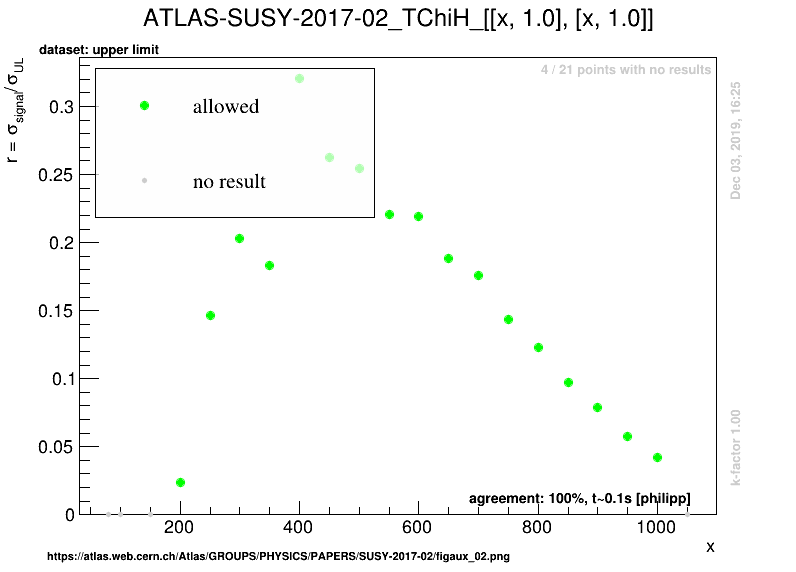
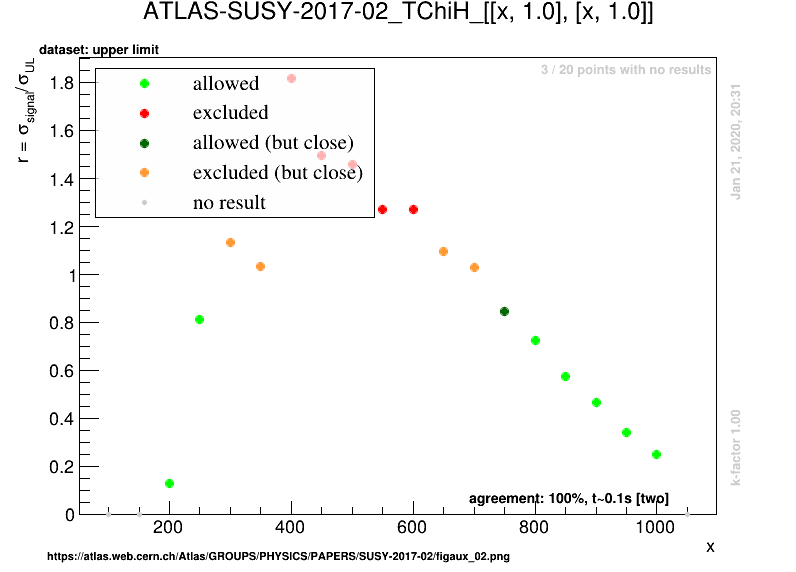
TChiH added

diff --git a/docs/Validation123phil.md b/docs/Validation123phil.md
@@ -26,12 +26,12 @@ The validation procedure for upper limit maps used here is explained in [arXiv:1
 |------------|------------|--------------|----------------------|-------------|
 | [ATLAS-SUSY-2016-07](https://atlas.web.cern.ch/Atlas/GROUPS/PHYSICS/PAPERS/SUSY-2016-07/)| [T1](SmsDictionary123phil#T1)| 36.1|<a href="https://smodels.github.io/validation/123phil/13TeV/ATLAS/ATLAS-SUSY-2016-07/validation/T1_2EqMassAx_EqMassBy_pretty.png"><img src="https://smodels.github.io/validation/123phil/13TeV/ATLAS/ATLAS-SUSY-2016-07/validation/T1_2EqMassAx_EqMassBy_pretty.png" /></a>  | <img src="https://smodels.github.io/pics/new.png" /> in 1.2.3phil! [comment](https://smodels.github.io/validation/123phil/13TeV/ATLAS/ATLAS-SUSY-2016-07/validation/T1.txt) |
 | | [T2](SmsDictionary123phil#T2)| 36.1|<a href="https://smodels.github.io/validation/123phil/13TeV/ATLAS/ATLAS-SUSY-2016-07/validation/T2_2EqMassAx_EqMassBy_pretty.png"><img src="https://smodels.github.io/validation/123phil/13TeV/ATLAS/ATLAS-SUSY-2016-07/validation/T2_2EqMassAx_EqMassBy_pretty.png" /></a>  | <img src="https://smodels.github.io/pics/new.png" /> in 1.2.3phil! [comment](https://smodels.github.io/validation/123phil/13TeV/ATLAS/ATLAS-SUSY-2016-07/validation/T2.txt) |
-| | [T5WW](SmsDictionary123phil#T5WW)| 36.1|<a href="https://smodels.github.io/validation/123phil/13TeV/ATLAS/ATLAS-SUSY-2016-07/validation/T5WW_2EqMassAx_EqMassBy_EqMassC60.0_pretty.png"><img src="https://smodels.github.io/validation/123phil/13TeV/ATLAS/ATLAS-SUSY-2016-07/validation/T5WW_2EqMassAx_EqMassBy_EqMassC60.0_pretty.png" /></a><BR><a href="https://smodels.github.io/validation/123phil/13TeV/ATLAS/ATLAS-SUSY-2016-07/validation/T5WW_2EqMassAx_EqMassB0.5x+0.5y_EqMassCy_pretty.png"><img src="https://smodels.github.io/validation/123phil/13TeV/ATLAS/ATLAS-SUSY-2016-07/validation/T5WW_2EqMassAx_EqMassB0.5x+0.5y_EqMassCy_pretty.png" /></a>  | <img src="https://smodels.github.io/pics/new.png" /> in 1.2.3phil! [comment](https://smodels.github.io/validation/123phil/13TeV/ATLAS/ATLAS-SUSY-2016-07/validation/T5WW.txt) |
+| | [T5WW](SmsDictionary123phil#T5WW)| 36.1|<a href="https://smodels.github.io/validation/123phil/13TeV/ATLAS/ATLAS-SUSY-2016-07/validation/T5WW_2EqMassAx_EqMassB0.5x+0.5y_EqMassCy_pretty.png"><img src="https://smodels.github.io/validation/123phil/13TeV/ATLAS/ATLAS-SUSY-2016-07/validation/T5WW_2EqMassAx_EqMassB0.5x+0.5y_EqMassCy_pretty.png" /></a><BR><a href="https://smodels.github.io/validation/123phil/13TeV/ATLAS/ATLAS-SUSY-2016-07/validation/T5WW_2EqMassAx_EqMassBy_EqMassC60.0_pretty.png"><img src="https://smodels.github.io/validation/123phil/13TeV/ATLAS/ATLAS-SUSY-2016-07/validation/T5WW_2EqMassAx_EqMassBy_EqMassC60.0_pretty.png" /></a>  | <img src="https://smodels.github.io/pics/new.png" /> in 1.2.3phil! [comment](https://smodels.github.io/validation/123phil/13TeV/ATLAS/ATLAS-SUSY-2016-07/validation/T5WW.txt) |
 | | [T5WWoff](SmsDictionary123phil#T5WWoff)| 36.1|<a href="https://smodels.github.io/validation/123phil/13TeV/ATLAS/ATLAS-SUSY-2016-07/validation/T5WWoff_2EqMassAx_EqMassB0.5x+0.5y_EqMassCy_pretty.png"><img src="https://smodels.github.io/validation/123phil/13TeV/ATLAS/ATLAS-SUSY-2016-07/validation/T5WWoff_2EqMassAx_EqMassB0.5x+0.5y_EqMassCy_pretty.png" /></a><BR><a href="https://smodels.github.io/validation/123phil/13TeV/ATLAS/ATLAS-SUSY-2016-07/validation/T5WWoff_2EqMassAx_EqMassBy_EqMassC60.0_pretty.png"><img src="https://smodels.github.io/validation/123phil/13TeV/ATLAS/ATLAS-SUSY-2016-07/validation/T5WWoff_2EqMassAx_EqMassBy_EqMassC60.0_pretty.png" /></a>  | <img src="https://smodels.github.io/pics/new.png" /> in 1.2.3phil!  |
 | | [T5WZh](SmsDictionary123phil#T5WZh)| 36.1|<a href="https://smodels.github.io/validation/123phil/13TeV/ATLAS/ATLAS-SUSY-2016-07/validation/T5WZh_2EqMassAx_EqMassBy_EqMassC60.0_pretty.png"><img src="https://smodels.github.io/validation/123phil/13TeV/ATLAS/ATLAS-SUSY-2016-07/validation/T5WZh_2EqMassAx_EqMassBy_EqMassC60.0_pretty.png" /></a>  | <img src="https://smodels.github.io/pics/new.png" /> in 1.2.3phil!  |
 | | [T5ZZ](SmsDictionary123phil#T5ZZ)| 36.1|<a href="https://smodels.github.io/validation/123phil/13TeV/ATLAS/ATLAS-SUSY-2016-07/validation/T5ZZ_2EqMassAx_EqMassBy_EqMassC1.0_pretty.png"><img src="https://smodels.github.io/validation/123phil/13TeV/ATLAS/ATLAS-SUSY-2016-07/validation/T5ZZ_2EqMassAx_EqMassBy_EqMassC1.0_pretty.png" /></a>  | <img src="https://smodels.github.io/pics/new.png" /> in 1.2.3phil!  |
-| | [T6WWleft](SmsDictionary123phil#T6WWleft)| 36.1|<a href="https://smodels.github.io/validation/123phil/13TeV/ATLAS/ATLAS-SUSY-2016-07/validation/T6WWleft_2EqMassAx_EqMassBy_EqMassC60.0_pretty.png"><img src="https://smodels.github.io/validation/123phil/13TeV/ATLAS/ATLAS-SUSY-2016-07/validation/T6WWleft_2EqMassAx_EqMassBy_EqMassC60.0_pretty.png" /></a><BR><a href="https://smodels.github.io/validation/123phil/13TeV/ATLAS/ATLAS-SUSY-2016-07/validation/T6WWleft_2EqMassAx_EqMassB0.5x+0.5y_EqMassCy_pretty.png"><img src="https://smodels.github.io/validation/123phil/13TeV/ATLAS/ATLAS-SUSY-2016-07/validation/T6WWleft_2EqMassAx_EqMassB0.5x+0.5y_EqMassCy_pretty.png" /></a>  | <img src="https://smodels.github.io/pics/new.png" /> in 1.2.3phil! [comment](https://smodels.github.io/validation/123phil/13TeV/ATLAS/ATLAS-SUSY-2016-07/validation/T6WWleft.txt) |
-| | [T6WWoffleft](SmsDictionary123phil#T6WWoffleft)| 36.1|<a href="https://smodels.github.io/validation/123phil/13TeV/ATLAS/ATLAS-SUSY-2016-07/validation/T6WWoffleft_2EqMassAx_EqMassBy_EqMassC60.0_pretty.png"><img src="https://smodels.github.io/validation/123phil/13TeV/ATLAS/ATLAS-SUSY-2016-07/validation/T6WWoffleft_2EqMassAx_EqMassBy_EqMassC60.0_pretty.png" /></a><BR><a href="https://smodels.github.io/validation/123phil/13TeV/ATLAS/ATLAS-SUSY-2016-07/validation/T6WWoffleft_2EqMassAx_EqMassB0.5x+0.5y_EqMassCy_pretty.png"><img src="https://smodels.github.io/validation/123phil/13TeV/ATLAS/ATLAS-SUSY-2016-07/validation/T6WWoffleft_2EqMassAx_EqMassB0.5x+0.5y_EqMassCy_pretty.png" /></a>  | <img src="https://smodels.github.io/pics/new.png" /> in 1.2.3phil!  |
+| | [T6WWleft](SmsDictionary123phil#T6WWleft)| 36.1|<a href="https://smodels.github.io/validation/123phil/13TeV/ATLAS/ATLAS-SUSY-2016-07/validation/T6WWleft_2EqMassAx_EqMassB0.5x+0.5y_EqMassCy_pretty.png"><img src="https://smodels.github.io/validation/123phil/13TeV/ATLAS/ATLAS-SUSY-2016-07/validation/T6WWleft_2EqMassAx_EqMassB0.5x+0.5y_EqMassCy_pretty.png" /></a><BR><a href="https://smodels.github.io/validation/123phil/13TeV/ATLAS/ATLAS-SUSY-2016-07/validation/T6WWleft_2EqMassAx_EqMassBy_EqMassC60.0_pretty.png"><img src="https://smodels.github.io/validation/123phil/13TeV/ATLAS/ATLAS-SUSY-2016-07/validation/T6WWleft_2EqMassAx_EqMassBy_EqMassC60.0_pretty.png" /></a>  | <img src="https://smodels.github.io/pics/new.png" /> in 1.2.3phil! [comment](https://smodels.github.io/validation/123phil/13TeV/ATLAS/ATLAS-SUSY-2016-07/validation/T6WWleft.txt) |
+| | [T6WWoffleft](SmsDictionary123phil#T6WWoffleft)| 36.1|<a href="https://smodels.github.io/validation/123phil/13TeV/ATLAS/ATLAS-SUSY-2016-07/validation/T6WWoffleft_2EqMassAx_EqMassB0.5x+0.5y_EqMassCy_pretty.png"><img src="https://smodels.github.io/validation/123phil/13TeV/ATLAS/ATLAS-SUSY-2016-07/validation/T6WWoffleft_2EqMassAx_EqMassB0.5x+0.5y_EqMassCy_pretty.png" /></a><BR><a href="https://smodels.github.io/validation/123phil/13TeV/ATLAS/ATLAS-SUSY-2016-07/validation/T6WWoffleft_2EqMassAx_EqMassBy_EqMassC60.0_pretty.png"><img src="https://smodels.github.io/validation/123phil/13TeV/ATLAS/ATLAS-SUSY-2016-07/validation/T6WWoffleft_2EqMassAx_EqMassBy_EqMassC60.0_pretty.png" /></a>  | <img src="https://smodels.github.io/pics/new.png" /> in 1.2.3phil!  |
 | | [T6WZh](SmsDictionary123phil#T6WZh)| 36.1|<a href="https://smodels.github.io/validation/123phil/13TeV/ATLAS/ATLAS-SUSY-2016-07/validation/T6WZh_2EqMassAx_EqMassBy_EqMassC60.0_pretty.png"><img src="https://smodels.github.io/validation/123phil/13TeV/ATLAS/ATLAS-SUSY-2016-07/validation/T6WZh_2EqMassAx_EqMassBy_EqMassC60.0_pretty.png" /></a>  | <img src="https://smodels.github.io/pics/new.png" /> in 1.2.3phil! [comment](https://smodels.github.io/validation/123phil/13TeV/ATLAS/ATLAS-SUSY-2016-07/validation/T6WZh.txt) |
 | [ATLAS-SUSY-2016-15](https://atlas.web.cern.ch/Atlas/GROUPS/PHYSICS/PAPERS/SUSY-2016-15/)| [T2tt](SmsDictionary123phil#T2tt)| 36.1|<a href="https://smodels.github.io/validation/123phil/13TeV/ATLAS/ATLAS-SUSY-2016-15/validation/T2tt_2EqMassAx_EqMassBy_pretty.png"><img src="https://smodels.github.io/validation/123phil/13TeV/ATLAS/ATLAS-SUSY-2016-15/validation/T2tt_2EqMassAx_EqMassBy_pretty.png" /></a>  | <img src="https://smodels.github.io/pics/new.png" /> in 1.2.3phil!  |
 | | [T2ttoff](SmsDictionary123phil#T2ttoff)| 36.1|<a href="https://smodels.github.io/validation/123phil/13TeV/ATLAS/ATLAS-SUSY-2016-15/validation/T2ttoff_2EqMassAx_EqMassBy_pretty.png"><img src="https://smodels.github.io/validation/123phil/13TeV/ATLAS/ATLAS-SUSY-2016-15/validation/T2ttoff_2EqMassAx_EqMassBy_pretty.png" /></a>  | <img src="https://smodels.github.io/pics/new.png" /> in 1.2.3phil!  |
@@ -48,7 +48,7 @@ The validation procedure for upper limit maps used here is explained in [arXiv:1
 | | [T6Gamma](SmsDictionary123phil#T6Gamma)| 36.1|<a href="https://smodels.github.io/validation/123phil/13TeV/ATLAS/ATLAS-SUSY-2016-27/validation/T6Gamma_2EqMassAx_EqMassBy_EqMassC1.0_pretty.png"><img src="https://smodels.github.io/validation/123phil/13TeV/ATLAS/ATLAS-SUSY-2016-27/validation/T6Gamma_2EqMassAx_EqMassBy_EqMassC1.0_pretty.png" /></a>  | <img src="https://smodels.github.io/pics/new.png" /> in 1.2.3phil!  |
 | | [TChipChimGamma](SmsDictionary123phil#TChipChimGamma)| 36.1|<a href="https://smodels.github.io/validation/123phil/13TeV/ATLAS/ATLAS-SUSY-2016-27/validation/TChipChimGamma_2EqMassAx_EqMassBy_EqMassC1.0_pretty.png"><img src="https://smodels.github.io/validation/123phil/13TeV/ATLAS/ATLAS-SUSY-2016-27/validation/TChipChimGamma_2EqMassAx_EqMassBy_EqMassC1.0_pretty.png" /></a>  | <img src="https://smodels.github.io/pics/new.png" /> in 1.2.3phil!  |
 | [ATLAS-SUSY-2017-01](https://atlas.web.cern.ch/Atlas/GROUPS/PHYSICS/PAPERS/SUSY-2017-01/)| [TChiWH](SmsDictionary123phil#TChiWH)| 36.1|<a href="https://smodels.github.io/validation/123phil/13TeV/ATLAS/ATLAS-SUSY-2017-01/validation/TChiWH_2EqMassAx_EqMassBy_pretty.png"><img src="https://smodels.github.io/validation/123phil/13TeV/ATLAS/ATLAS-SUSY-2017-01/validation/TChiWH_2EqMassAx_EqMassBy_pretty.png" /></a>  | <img src="https://smodels.github.io/pics/new.png" /> in 1.2.3phil!  |
-| [ATLAS-SUSY-2017-02](https://atlas.web.cern.ch/Atlas/GROUPS/PHYSICS/PAPERS/SUSY-2017-02/)| [TChiH](SmsDictionary123phil#TChiH)| 36.1|  | <img src="https://smodels.github.io/pics/new.png" /> in 1.2.3phil!  |
+| [ATLAS-SUSY-2017-02](https://atlas.web.cern.ch/Atlas/GROUPS/PHYSICS/PAPERS/SUSY-2017-02/)| [TChiH](SmsDictionary123phil#TChiH)| 36.1|<a href="https://smodels.github.io/validation/123phil/13TeV/ATLAS/ATLAS-SUSY-2017-02/validation/TChiH_2EqMassAx_EqMassB1.0_pretty.png"><img src="https://smodels.github.io/validation/123phil/13TeV/ATLAS/ATLAS-SUSY-2017-02/validation/TChiH_2EqMassAx_EqMassB1.0_pretty.png" /></a>  | <img src="https://smodels.github.io/pics/new.png" /> in 1.2.3phil!  |
 | [ATLAS-SUSY-2018-32](https://atlas.web.cern.ch/Atlas/GROUPS/PHYSICS/PAPERS/SUSY-2018-32/)| [TChiWW](SmsDictionary123phil#TChiWW)| 139.0|<a href="https://smodels.github.io/validation/123phil/13TeV/ATLAS/ATLAS-SUSY-2018-32/validation/TChiWW_2EqMassAx_EqMassBy_pretty.png"><img src="https://smodels.github.io/validation/123phil/13TeV/ATLAS/ATLAS-SUSY-2018-32/validation/TChiWW_2EqMassAx_EqMassBy_pretty.png" /></a>  | <img src="https://smodels.github.io/pics/new.png" /> in 1.2.3phil!  |
 | | [TChipChimSlepSlepAll](SmsDictionary123phil#TChipChimSlepSlepAll)| 139.0|<a href="https://smodels.github.io/validation/123phil/13TeV/ATLAS/ATLAS-SUSY-2018-32/validation/TChipChimSlepSlepAll_2EqMassAx_EqMassB0.5x+0.5y_EqMassCy_pretty.png"><img src="https://smodels.github.io/validation/123phil/13TeV/ATLAS/ATLAS-SUSY-2018-32/validation/TChipChimSlepSlepAll_2EqMassAx_EqMassB0.5x+0.5y_EqMassCy_pretty.png" /></a>  | <img src="https://smodels.github.io/pics/new.png" /> in 1.2.3phil!  |
 | | [TSlepSlep](SmsDictionary123phil#TSlepSlep)| 139.0|<a href="https://smodels.github.io/validation/123phil/13TeV/ATLAS/ATLAS-SUSY-2018-32/validation/TSlepSlep_2EqMassAx_EqMassBy_pretty.png"><img src="https://smodels.github.io/validation/123phil/13TeV/ATLAS/ATLAS-SUSY-2018-32/validation/TSlepSlep_2EqMassAx_EqMassBy_pretty.png" /></a>  | <img src="https://smodels.github.io/pics/new.png" /> in 1.2.3phil!  |
@@ -61,15 +61,15 @@ The validation procedure for upper limit maps used here is explained in [arXiv:1
 |------------|------------|--------------|----------------------|-------------|
 | [ATLAS-SUSY-2016-07](https://atlas.web.cern.ch/Atlas/GROUPS/PHYSICS/PAPERS/SUSY-2016-07/)| [T1](SmsDictionary123phil#T1)| 36.1|<a href="https://smodels.github.io/validation/123phil/13TeV/ATLAS/ATLAS-SUSY-2016-07-eff/validation/T1_2EqMassAx_EqMassBy_pretty.png"><img src="https://smodels.github.io/validation/123phil/13TeV/ATLAS/ATLAS-SUSY-2016-07-eff/validation/T1_2EqMassAx_EqMassBy_pretty.png" /></a>  | <img src="https://smodels.github.io/pics/new.png" /> in 1.2.3phil!  |
 | | [T2](SmsDictionary123phil#T2)| 36.1|<a href="https://smodels.github.io/validation/123phil/13TeV/ATLAS/ATLAS-SUSY-2016-07-eff/validation/T2_2EqMassAx_EqMassBy_pretty.png"><img src="https://smodels.github.io/validation/123phil/13TeV/ATLAS/ATLAS-SUSY-2016-07-eff/validation/T2_2EqMassAx_EqMassBy_pretty.png" /></a>  | <img src="https://smodels.github.io/pics/new.png" /> in 1.2.3phil!  |
-| | [T5WW](SmsDictionary123phil#T5WW)| 36.1|<a href="https://smodels.github.io/validation/123phil/13TeV/ATLAS/ATLAS-SUSY-2016-07-eff/validation/T5WW_2EqMassAx_EqMassBy_EqMassC60.0_pretty.png"><img src="https://smodels.github.io/validation/123phil/13TeV/ATLAS/ATLAS-SUSY-2016-07-eff/validation/T5WW_2EqMassAx_EqMassBy_EqMassC60.0_pretty.png" /></a><BR><a href="https://smodels.github.io/validation/123phil/13TeV/ATLAS/ATLAS-SUSY-2016-07-eff/validation/T5WW_2EqMassAx_EqMassB0.5x+0.5y_EqMassCy_pretty.png"><img src="https://smodels.github.io/validation/123phil/13TeV/ATLAS/ATLAS-SUSY-2016-07-eff/validation/T5WW_2EqMassAx_EqMassB0.5x+0.5y_EqMassCy_pretty.png" /></a>  | <img src="https://smodels.github.io/pics/new.png" /> in 1.2.3phil!  |
+| | [T5WW](SmsDictionary123phil#T5WW)| 36.1|<a href="https://smodels.github.io/validation/123phil/13TeV/ATLAS/ATLAS-SUSY-2016-07-eff/validation/T5WW_2EqMassAx_EqMassB0.5x+0.5y_EqMassCy_pretty.png"><img src="https://smodels.github.io/validation/123phil/13TeV/ATLAS/ATLAS-SUSY-2016-07-eff/validation/T5WW_2EqMassAx_EqMassB0.5x+0.5y_EqMassCy_pretty.png" /></a><BR><a href="https://smodels.github.io/validation/123phil/13TeV/ATLAS/ATLAS-SUSY-2016-07-eff/validation/T5WW_2EqMassAx_EqMassBy_EqMassC60.0_pretty.png"><img src="https://smodels.github.io/validation/123phil/13TeV/ATLAS/ATLAS-SUSY-2016-07-eff/validation/T5WW_2EqMassAx_EqMassBy_EqMassC60.0_pretty.png" /></a>  | <img src="https://smodels.github.io/pics/new.png" /> in 1.2.3phil!  |
 | | [T5WWoff](SmsDictionary123phil#T5WWoff)| 36.1|<a href="https://smodels.github.io/validation/123phil/13TeV/ATLAS/ATLAS-SUSY-2016-07-eff/validation/T5WWoff_2EqMassAx_EqMassB0.5x+0.5y_EqMassCy_pretty.png"><img src="https://smodels.github.io/validation/123phil/13TeV/ATLAS/ATLAS-SUSY-2016-07-eff/validation/T5WWoff_2EqMassAx_EqMassB0.5x+0.5y_EqMassCy_pretty.png" /></a><BR><a href="https://smodels.github.io/validation/123phil/13TeV/ATLAS/ATLAS-SUSY-2016-07-eff/validation/T5WWoff_2EqMassAx_EqMassBy_EqMassC60.0_pretty.png"><img src="https://smodels.github.io/validation/123phil/13TeV/ATLAS/ATLAS-SUSY-2016-07-eff/validation/T5WWoff_2EqMassAx_EqMassBy_EqMassC60.0_pretty.png" /></a>  | <img src="https://smodels.github.io/pics/new.png" /> in 1.2.3phil!  |
 | | [T5WZh](SmsDictionary123phil#T5WZh)| 36.1|<a href="https://smodels.github.io/validation/123phil/13TeV/ATLAS/ATLAS-SUSY-2016-07-eff/validation/T5WZh_2EqMassAx_EqMassBy_EqMassC60.0_pretty.png"><img src="https://smodels.github.io/validation/123phil/13TeV/ATLAS/ATLAS-SUSY-2016-07-eff/validation/T5WZh_2EqMassAx_EqMassBy_EqMassC60.0_pretty.png" /></a>  | <img src="https://smodels.github.io/pics/new.png" /> in 1.2.3phil! [comment](https://smodels.github.io/validation/123phil/13TeV/ATLAS/ATLAS-SUSY-2016-07-eff/validation/T5WZh.txt) |
 | | [T5ZZ](SmsDictionary123phil#T5ZZ)| 36.1|<a href="https://smodels.github.io/validation/123phil/13TeV/ATLAS/ATLAS-SUSY-2016-07-eff/validation/T5ZZ_2EqMassAx_EqMassBy_EqMassC1.0_pretty.png"><img src="https://smodels.github.io/validation/123phil/13TeV/ATLAS/ATLAS-SUSY-2016-07-eff/validation/T5ZZ_2EqMassAx_EqMassBy_EqMassC1.0_pretty.png" /></a>  | <img src="https://smodels.github.io/pics/new.png" /> in 1.2.3phil!  |
-| | [T6WWleft](SmsDictionary123phil#T6WWleft)| 36.1|<a href="https://smodels.github.io/validation/123phil/13TeV/ATLAS/ATLAS-SUSY-2016-07-eff/validation/T6WWleft_2EqMassAx_EqMassBy_EqMassC60.0_pretty.png"><img src="https://smodels.github.io/validation/123phil/13TeV/ATLAS/ATLAS-SUSY-2016-07-eff/validation/T6WWleft_2EqMassAx_EqMassBy_EqMassC60.0_pretty.png" /></a><BR><a href="https://smodels.github.io/validation/123phil/13TeV/ATLAS/ATLAS-SUSY-2016-07-eff/validation/T6WWleft_2EqMassAx_EqMassB0.5x+0.5y_EqMassCy_pretty.png"><img src="https://smodels.github.io/validation/123phil/13TeV/ATLAS/ATLAS-SUSY-2016-07-eff/validation/T6WWleft_2EqMassAx_EqMassB0.5x+0.5y_EqMassCy_pretty.png" /></a>  | <img src="https://smodels.github.io/pics/new.png" /> in 1.2.3phil!  |
-| | [T6WWoffleft](SmsDictionary123phil#T6WWoffleft)| 36.1|<a href="https://smodels.github.io/validation/123phil/13TeV/ATLAS/ATLAS-SUSY-2016-07-eff/validation/T6WWoffleft_2EqMassAx_EqMassBy_EqMassC60.0_pretty.png"><img src="https://smodels.github.io/validation/123phil/13TeV/ATLAS/ATLAS-SUSY-2016-07-eff/validation/T6WWoffleft_2EqMassAx_EqMassBy_EqMassC60.0_pretty.png" /></a><BR><a href="https://smodels.github.io/validation/123phil/13TeV/ATLAS/ATLAS-SUSY-2016-07-eff/validation/T6WWoffleft_2EqMassAx_EqMassB0.5x+0.5y_EqMassCy_pretty.png"><img src="https://smodels.github.io/validation/123phil/13TeV/ATLAS/ATLAS-SUSY-2016-07-eff/validation/T6WWoffleft_2EqMassAx_EqMassB0.5x+0.5y_EqMassCy_pretty.png" /></a>  | <img src="https://smodels.github.io/pics/new.png" /> in 1.2.3phil!  |
+| | [T6WWleft](SmsDictionary123phil#T6WWleft)| 36.1|<a href="https://smodels.github.io/validation/123phil/13TeV/ATLAS/ATLAS-SUSY-2016-07-eff/validation/T6WWleft_2EqMassAx_EqMassB0.5x+0.5y_EqMassCy_pretty.png"><img src="https://smodels.github.io/validation/123phil/13TeV/ATLAS/ATLAS-SUSY-2016-07-eff/validation/T6WWleft_2EqMassAx_EqMassB0.5x+0.5y_EqMassCy_pretty.png" /></a><BR><a href="https://smodels.github.io/validation/123phil/13TeV/ATLAS/ATLAS-SUSY-2016-07-eff/validation/T6WWleft_2EqMassAx_EqMassBy_EqMassC60.0_pretty.png"><img src="https://smodels.github.io/validation/123phil/13TeV/ATLAS/ATLAS-SUSY-2016-07-eff/validation/T6WWleft_2EqMassAx_EqMassBy_EqMassC60.0_pretty.png" /></a>  | <img src="https://smodels.github.io/pics/new.png" /> in 1.2.3phil!  |
+| | [T6WWoffleft](SmsDictionary123phil#T6WWoffleft)| 36.1|<a href="https://smodels.github.io/validation/123phil/13TeV/ATLAS/ATLAS-SUSY-2016-07-eff/validation/T6WWoffleft_2EqMassAx_EqMassB0.5x+0.5y_EqMassCy_pretty.png"><img src="https://smodels.github.io/validation/123phil/13TeV/ATLAS/ATLAS-SUSY-2016-07-eff/validation/T6WWoffleft_2EqMassAx_EqMassB0.5x+0.5y_EqMassCy_pretty.png" /></a><BR><a href="https://smodels.github.io/validation/123phil/13TeV/ATLAS/ATLAS-SUSY-2016-07-eff/validation/T6WWoffleft_2EqMassAx_EqMassBy_EqMassC60.0_pretty.png"><img src="https://smodels.github.io/validation/123phil/13TeV/ATLAS/ATLAS-SUSY-2016-07-eff/validation/T6WWoffleft_2EqMassAx_EqMassBy_EqMassC60.0_pretty.png" /></a>  | <img src="https://smodels.github.io/pics/new.png" /> in 1.2.3phil!  |
 | | [T6WZh](SmsDictionary123phil#T6WZh)| 36.1|<a href="https://smodels.github.io/validation/123phil/13TeV/ATLAS/ATLAS-SUSY-2016-07-eff/validation/T6WZh_2EqMassAx_EqMassBy_EqMassC60.0_pretty.png"><img src="https://smodels.github.io/validation/123phil/13TeV/ATLAS/ATLAS-SUSY-2016-07-eff/validation/T6WZh_2EqMassAx_EqMassBy_EqMassC60.0_pretty.png" /></a>  | <img src="https://smodels.github.io/pics/new.png" /> in 1.2.3phil! [comment](https://smodels.github.io/validation/123phil/13TeV/ATLAS/ATLAS-SUSY-2016-07-eff/validation/T6WZh.txt) |
 | | [TGQ](SmsDictionary123phil#TGQ)| 36.1|  | <img src="https://smodels.github.io/pics/new.png" /> in 1.2.3phil!  |
-| | [TGQ12](SmsDictionary123phil#TGQ12)| 36.1|<a href="https://smodels.github.io/validation/123phil/13TeV/ATLAS/ATLAS-SUSY-2016-07-eff/validation/TGQ12_EqMassAx_EqMassB695.0__EqmassAy_EqmassB695.0_pretty.png"><img src="https://smodels.github.io/validation/123phil/13TeV/ATLAS/ATLAS-SUSY-2016-07-eff/validation/TGQ12_EqMassAx_EqMassB695.0__EqmassAy_EqmassB695.0_pretty.png" /></a><BR><a href="https://smodels.github.io/validation/123phil/13TeV/ATLAS/ATLAS-SUSY-2016-07-eff/validation/TGQ12_EqMassAx_EqMassB0.0__EqmassAy_EqmassB0.0_pretty.png"><img src="https://smodels.github.io/validation/123phil/13TeV/ATLAS/ATLAS-SUSY-2016-07-eff/validation/TGQ12_EqMassAx_EqMassB0.0__EqmassAy_EqmassB0.0_pretty.png" /></a><BR><a href="https://smodels.github.io/validation/123phil/13TeV/ATLAS/ATLAS-SUSY-2016-07-eff/validation/TGQ12_EqMassAx_EqMassB995.0__EqmassAy_EqmassB995.0_pretty.png"><img src="https://smodels.github.io/validation/123phil/13TeV/ATLAS/ATLAS-SUSY-2016-07-eff/validation/TGQ12_EqMassAx_EqMassB995.0__EqmassAy_EqmassB995.0_pretty.png" /></a>  | <img src="https://smodels.github.io/pics/new.png" /> in 1.2.3phil! [comment](https://smodels.github.io/validation/123phil/13TeV/ATLAS/ATLAS-SUSY-2016-07-eff/validation/TGQ12.txt) |
+| | [TGQ12](SmsDictionary123phil#TGQ12)| 36.1|<a href="https://smodels.github.io/validation/123phil/13TeV/ATLAS/ATLAS-SUSY-2016-07-eff/validation/TGQ12_EqMassAx_EqMassB995.0__EqmassAy_EqmassB995.0_pretty.png"><img src="https://smodels.github.io/validation/123phil/13TeV/ATLAS/ATLAS-SUSY-2016-07-eff/validation/TGQ12_EqMassAx_EqMassB995.0__EqmassAy_EqmassB995.0_pretty.png" /></a><BR><a href="https://smodels.github.io/validation/123phil/13TeV/ATLAS/ATLAS-SUSY-2016-07-eff/validation/TGQ12_EqMassAx_EqMassB0.0__EqmassAy_EqmassB0.0_pretty.png"><img src="https://smodels.github.io/validation/123phil/13TeV/ATLAS/ATLAS-SUSY-2016-07-eff/validation/TGQ12_EqMassAx_EqMassB0.0__EqmassAy_EqmassB0.0_pretty.png" /></a><BR><a href="https://smodels.github.io/validation/123phil/13TeV/ATLAS/ATLAS-SUSY-2016-07-eff/validation/TGQ12_EqMassAx_EqMassB695.0__EqmassAy_EqmassB695.0_pretty.png"><img src="https://smodels.github.io/validation/123phil/13TeV/ATLAS/ATLAS-SUSY-2016-07-eff/validation/TGQ12_EqMassAx_EqMassB695.0__EqmassAy_EqmassB695.0_pretty.png" /></a>  | <img src="https://smodels.github.io/pics/new.png" /> in 1.2.3phil! [comment](https://smodels.github.io/validation/123phil/13TeV/ATLAS/ATLAS-SUSY-2016-07-eff/validation/TGQ12.txt) |
 | [ATLAS-SUSY-2016-15](https://atlas.web.cern.ch/Atlas/GROUPS/PHYSICS/PAPERS/SUSY-2016-15/)| [T2tt](SmsDictionary123phil#T2tt)| 36.1|<a href="https://smodels.github.io/validation/123phil/13TeV/ATLAS/ATLAS-SUSY-2016-15-eff/validation/T2tt_2EqMassAx_EqMassBy_pretty.png"><img src="https://smodels.github.io/validation/123phil/13TeV/ATLAS/ATLAS-SUSY-2016-15-eff/validation/T2tt_2EqMassAx_EqMassBy_pretty.png" /></a>  | <img src="https://smodels.github.io/pics/new.png" /> in 1.2.3phil!  |
 | | [T2ttoff](SmsDictionary123phil#T2ttoff)| 36.1|<a href="https://smodels.github.io/validation/123phil/13TeV/ATLAS/ATLAS-SUSY-2016-15-eff/validation/T2ttoff_2EqMassAx_EqMassBy_pretty.png"><img src="https://smodels.github.io/validation/123phil/13TeV/ATLAS/ATLAS-SUSY-2016-15-eff/validation/T2ttoff_2EqMassAx_EqMassBy_pretty.png" /></a>  | <img src="https://smodels.github.io/pics/new.png" /> in 1.2.3phil! [comment](https://smodels.github.io/validation/123phil/13TeV/ATLAS/ATLAS-SUSY-2016-15-eff/validation/T2ttoff.txt) |
 | [ATLAS-SUSY-2016-16](https://atlas.web.cern.ch/Atlas/GROUPS/PHYSICS/PAPERS/SUSY-2016-16/)| [T2ttoff](SmsDictionary123phil#T2ttoff)| 36.1|<a href="https://smodels.github.io/validation/123phil/13TeV/ATLAS/ATLAS-SUSY-2016-16-eff/validation/T2ttoff_2EqMassAx_EqMassBy_pretty.png"><img src="https://smodels.github.io/validation/123phil/13TeV/ATLAS/ATLAS-SUSY-2016-16-eff/validation/T2ttoff_2EqMassAx_EqMassBy_pretty.png" /></a>  | <img src="https://smodels.github.io/pics/new.png" /> in 1.2.3phil!  |
@@ -83,4 +83,4 @@ The validation procedure for upper limit maps used here is explained in [arXiv:1
 | [ATLAS-SUSY-2017-01](https://atlas.web.cern.ch/Atlas/GROUPS/PHYSICS/PAPERS/SUSY-2017-01/)| [TChiWH](SmsDictionary123phil#TChiWH)| 36.1|<a href="https://smodels.github.io/validation/123phil/13TeV/ATLAS/ATLAS-SUSY-2017-01-eff/validation/TChiWH_2EqMassAx_EqMassBy_pretty.png"><img src="https://smodels.github.io/validation/123phil/13TeV/ATLAS/ATLAS-SUSY-2017-01-eff/validation/TChiWH_2EqMassAx_EqMassBy_pretty.png" /></a>  | <img src="https://smodels.github.io/pics/new.png" /> in 1.2.3phil! [comment](https://smodels.github.io/validation/123phil/13TeV/ATLAS/ATLAS-SUSY-2017-01-eff/validation/TChiWH.txt) |
 | [ATLAS-SUSY-2018-32](https://atlas.web.cern.ch/Atlas/GROUPS/PHYSICS/PAPERS/SUSY-2018-32/)| [TChiWW](SmsDictionary123phil#TChiWW)| 139.0|<a href="https://smodels.github.io/validation/123phil/13TeV/ATLAS/ATLAS-SUSY-2018-32-eff/validation/TChiWW_2EqMassAx_EqMassBy_pretty.png"><img src="https://smodels.github.io/validation/123phil/13TeV/ATLAS/ATLAS-SUSY-2018-32-eff/validation/TChiWW_2EqMassAx_EqMassBy_pretty.png" /></a>  | <img src="https://smodels.github.io/pics/new.png" /> in 1.2.3phil!  |
 
-This page was created Mon Jan 20 13:20:38 2020
+This page was created Tue Jan 21 20:34:13 2020

diff --git a/docs/ValidationUgly123phil.md b/docs/ValidationUgly123phil.md
@@ -29,11 +29,11 @@ To [official validation plots](Validation123phil)
 |------------|------------|--------------|----------------|----------------------|-------------|
 | [ATLAS-SUSY-2016-07](https://atlas.web.cern.ch/Atlas/GROUPS/PHYSICS/PAPERS/SUSY-2016-07/)| [T1](SmsDictionary123phil#T1)| 36.1| False |<a href="https://smodels.github.io/validation/123phil/13TeV/ATLAS/ATLAS-SUSY-2016-07/validation/T1_2EqMassAx_EqMassBy.png"><img src="https://smodels.github.io/validation/123phil/13TeV/ATLAS/ATLAS-SUSY-2016-07/validation/T1_2EqMassAx_EqMassBy.png" /></a>  | <img src="https://smodels.github.io/pics/new.png" /> in 1.2.3phil! [comment](https://smodels.github.io/validation/123phil/13TeV/ATLAS/ATLAS-SUSY-2016-07/validation/T1.txt) |
 | | [T2](SmsDictionary123phil#T2)| 36.1| False |<a href="https://smodels.github.io/validation/123phil/13TeV/ATLAS/ATLAS-SUSY-2016-07/validation/T2_2EqMassAx_EqMassBy.png"><img src="https://smodels.github.io/validation/123phil/13TeV/ATLAS/ATLAS-SUSY-2016-07/validation/T2_2EqMassAx_EqMassBy.png" /></a>  | <img src="https://smodels.github.io/pics/new.png" /> in 1.2.3phil! [comment](https://smodels.github.io/validation/123phil/13TeV/ATLAS/ATLAS-SUSY-2016-07/validation/T2.txt) |
-| | [T5WW](SmsDictionary123phil#T5WW)| 36.1| False |<a href="https://smodels.github.io/validation/123phil/13TeV/ATLAS/ATLAS-SUSY-2016-07/validation/T5WW_2EqMassAx_EqMassBy_EqMassC60.0.png"><img src="https://smodels.github.io/validation/123phil/13TeV/ATLAS/ATLAS-SUSY-2016-07/validation/T5WW_2EqMassAx_EqMassBy_EqMassC60.0.png" /></a><BR><a href="https://smodels.github.io/validation/123phil/13TeV/ATLAS/ATLAS-SUSY-2016-07/validation/T5WW_2EqMassAx_EqMassB0.5x+0.5y_EqMassCy.png"><img src="https://smodels.github.io/validation/123phil/13TeV/ATLAS/ATLAS-SUSY-2016-07/validation/T5WW_2EqMassAx_EqMassB0.5x+0.5y_EqMassCy.png" /></a>  | <img src="https://smodels.github.io/pics/new.png" /> in 1.2.3phil! [comment](https://smodels.github.io/validation/123phil/13TeV/ATLAS/ATLAS-SUSY-2016-07/validation/T5WW.txt) |
+| | [T5WW](SmsDictionary123phil#T5WW)| 36.1| False |<a href="https://smodels.github.io/validation/123phil/13TeV/ATLAS/ATLAS-SUSY-2016-07/validation/T5WW_2EqMassAx_EqMassB0.5x+0.5y_EqMassCy.png"><img src="https://smodels.github.io/validation/123phil/13TeV/ATLAS/ATLAS-SUSY-2016-07/validation/T5WW_2EqMassAx_EqMassB0.5x+0.5y_EqMassCy.png" /></a><BR><a href="https://smodels.github.io/validation/123phil/13TeV/ATLAS/ATLAS-SUSY-2016-07/validation/T5WW_2EqMassAx_EqMassBy_EqMassC60.0.png"><img src="https://smodels.github.io/validation/123phil/13TeV/ATLAS/ATLAS-SUSY-2016-07/validation/T5WW_2EqMassAx_EqMassBy_EqMassC60.0.png" /></a>  | <img src="https://smodels.github.io/pics/new.png" /> in 1.2.3phil! [comment](https://smodels.github.io/validation/123phil/13TeV/ATLAS/ATLAS-SUSY-2016-07/validation/T5WW.txt) |
 | | [T5WWoff](SmsDictionary123phil#T5WWoff)| 36.1| False |<a href="https://smodels.github.io/validation/123phil/13TeV/ATLAS/ATLAS-SUSY-2016-07/validation/T5WWoff_2EqMassAx_EqMassBy_EqMassC60.0.png"><img src="https://smodels.github.io/validation/123phil/13TeV/ATLAS/ATLAS-SUSY-2016-07/validation/T5WWoff_2EqMassAx_EqMassBy_EqMassC60.0.png" /></a><BR><a href="https://smodels.github.io/validation/123phil/13TeV/ATLAS/ATLAS-SUSY-2016-07/validation/T5WWoff_2EqMassAx_EqMassB0.5x+0.5y_EqMassCy.png"><img src="https://smodels.github.io/validation/123phil/13TeV/ATLAS/ATLAS-SUSY-2016-07/validation/T5WWoff_2EqMassAx_EqMassB0.5x+0.5y_EqMassCy.png" /></a>  | <img src="https://smodels.github.io/pics/new.png" /> in 1.2.3phil!  |
 | | [T5WZh](SmsDictionary123phil#T5WZh)| 36.1| False |<a href="https://smodels.github.io/validation/123phil/13TeV/ATLAS/ATLAS-SUSY-2016-07/validation/T5WZh_2EqMassAx_EqMassBy_EqMassC60.0.png"><img src="https://smodels.github.io/validation/123phil/13TeV/ATLAS/ATLAS-SUSY-2016-07/validation/T5WZh_2EqMassAx_EqMassBy_EqMassC60.0.png" /></a>  | <img src="https://smodels.github.io/pics/new.png" /> in 1.2.3phil!  |
 | | [T5ZZ](SmsDictionary123phil#T5ZZ)| 36.1| False |<a href="https://smodels.github.io/validation/123phil/13TeV/ATLAS/ATLAS-SUSY-2016-07/validation/T5ZZ_2EqMassAx_EqMassBy_EqMassC1.0.png"><img src="https://smodels.github.io/validation/123phil/13TeV/ATLAS/ATLAS-SUSY-2016-07/validation/T5ZZ_2EqMassAx_EqMassBy_EqMassC1.0.png" /></a>  | <img src="https://smodels.github.io/pics/new.png" /> in 1.2.3phil!  |
-| | [T6WWleft](SmsDictionary123phil#T6WWleft)| 36.1| False |<a href="https://smodels.github.io/validation/123phil/13TeV/ATLAS/ATLAS-SUSY-2016-07/validation/T6WWleft_2EqMassAx_EqMassBy_EqMassC60.0.png"><img src="https://smodels.github.io/validation/123phil/13TeV/ATLAS/ATLAS-SUSY-2016-07/validation/T6WWleft_2EqMassAx_EqMassBy_EqMassC60.0.png" /></a><BR><a href="https://smodels.github.io/validation/123phil/13TeV/ATLAS/ATLAS-SUSY-2016-07/validation/T6WWleft_2EqMassAx_EqMassB0.5x+0.5y_EqMassCy.png"><img src="https://smodels.github.io/validation/123phil/13TeV/ATLAS/ATLAS-SUSY-2016-07/validation/T6WWleft_2EqMassAx_EqMassB0.5x+0.5y_EqMassCy.png" /></a>  | <img src="https://smodels.github.io/pics/new.png" /> in 1.2.3phil! [comment](https://smodels.github.io/validation/123phil/13TeV/ATLAS/ATLAS-SUSY-2016-07/validation/T6WWleft.txt) |
+| | [T6WWleft](SmsDictionary123phil#T6WWleft)| 36.1| False |<a href="https://smodels.github.io/validation/123phil/13TeV/ATLAS/ATLAS-SUSY-2016-07/validation/T6WWleft_2EqMassAx_EqMassB0.5x+0.5y_EqMassCy.png"><img src="https://smodels.github.io/validation/123phil/13TeV/ATLAS/ATLAS-SUSY-2016-07/validation/T6WWleft_2EqMassAx_EqMassB0.5x+0.5y_EqMassCy.png" /></a><BR><a href="https://smodels.github.io/validation/123phil/13TeV/ATLAS/ATLAS-SUSY-2016-07/validation/T6WWleft_2EqMassAx_EqMassBy_EqMassC60.0.png"><img src="https://smodels.github.io/validation/123phil/13TeV/ATLAS/ATLAS-SUSY-2016-07/validation/T6WWleft_2EqMassAx_EqMassBy_EqMassC60.0.png" /></a>  | <img src="https://smodels.github.io/pics/new.png" /> in 1.2.3phil! [comment](https://smodels.github.io/validation/123phil/13TeV/ATLAS/ATLAS-SUSY-2016-07/validation/T6WWleft.txt) |
 | | [T6WWoffleft](SmsDictionary123phil#T6WWoffleft)| 36.1| False |<a href="https://smodels.github.io/validation/123phil/13TeV/ATLAS/ATLAS-SUSY-2016-07/validation/T6WWoffleft_2EqMassAx_EqMassB0.5x+0.5y_EqMassCy.png"><img src="https://smodels.github.io/validation/123phil/13TeV/ATLAS/ATLAS-SUSY-2016-07/validation/T6WWoffleft_2EqMassAx_EqMassB0.5x+0.5y_EqMassCy.png" /></a><BR><a href="https://smodels.github.io/validation/123phil/13TeV/ATLAS/ATLAS-SUSY-2016-07/validation/T6WWoffleft_2EqMassAx_EqMassBy_EqMassC60.0.png"><img src="https://smodels.github.io/validation/123phil/13TeV/ATLAS/ATLAS-SUSY-2016-07/validation/T6WWoffleft_2EqMassAx_EqMassBy_EqMassC60.0.png" /></a>  | <img src="https://smodels.github.io/pics/new.png" /> in 1.2.3phil!  |
 | | [T6WZh](SmsDictionary123phil#T6WZh)| 36.1| False |<a href="https://smodels.github.io/validation/123phil/13TeV/ATLAS/ATLAS-SUSY-2016-07/validation/T6WZh_2EqMassAx_EqMassBy_EqMassC60.0.png"><img src="https://smodels.github.io/validation/123phil/13TeV/ATLAS/ATLAS-SUSY-2016-07/validation/T6WZh_2EqMassAx_EqMassBy_EqMassC60.0.png" /></a>  | <img src="https://smodels.github.io/pics/new.png" /> in 1.2.3phil! [comment](https://smodels.github.io/validation/123phil/13TeV/ATLAS/ATLAS-SUSY-2016-07/validation/T6WZh.txt) |
 | [ATLAS-SUSY-2016-15](https://atlas.web.cern.ch/Atlas/GROUPS/PHYSICS/PAPERS/SUSY-2016-15/)| [T2tt](SmsDictionary123phil#T2tt)| 36.1| tbd |<a href="https://smodels.github.io/validation/123phil/13TeV/ATLAS/ATLAS-SUSY-2016-15/validation/T2tt_2EqMassAx_EqMassBy.png"><img src="https://smodels.github.io/validation/123phil/13TeV/ATLAS/ATLAS-SUSY-2016-15/validation/T2tt_2EqMassAx_EqMassBy.png" /></a>  | <img src="https://smodels.github.io/pics/new.png" /> in 1.2.3phil!  |
@@ -64,15 +64,15 @@ To [official validation plots](Validation123phil)
 |------------|------------|--------------|----------------|----------------------|-------------|
 | [ATLAS-SUSY-2016-07](https://atlas.web.cern.ch/Atlas/GROUPS/PHYSICS/PAPERS/SUSY-2016-07/)| [T1](SmsDictionary123phil#T1)| 36.1| False |<a href="https://smodels.github.io/validation/123phil/13TeV/ATLAS/ATLAS-SUSY-2016-07-eff/validation/T1_2EqMassAx_EqMassBy.png"><img src="https://smodels.github.io/validation/123phil/13TeV/ATLAS/ATLAS-SUSY-2016-07-eff/validation/T1_2EqMassAx_EqMassBy.png" /></a>  | <img src="https://smodels.github.io/pics/new.png" /> in 1.2.3phil!  |
 | | [T2](SmsDictionary123phil#T2)| 36.1| False |<a href="https://smodels.github.io/validation/123phil/13TeV/ATLAS/ATLAS-SUSY-2016-07-eff/validation/T2_2EqMassAx_EqMassBy.png"><img src="https://smodels.github.io/validation/123phil/13TeV/ATLAS/ATLAS-SUSY-2016-07-eff/validation/T2_2EqMassAx_EqMassBy.png" /></a>  | <img src="https://smodels.github.io/pics/new.png" /> in 1.2.3phil!  |
-| | [T5WW](SmsDictionary123phil#T5WW)| 36.1| False |<a href="https://smodels.github.io/validation/123phil/13TeV/ATLAS/ATLAS-SUSY-2016-07-eff/validation/T5WW_2EqMassAx_EqMassBy_EqMassC60.0.png"><img src="https://smodels.github.io/validation/123phil/13TeV/ATLAS/ATLAS-SUSY-2016-07-eff/validation/T5WW_2EqMassAx_EqMassBy_EqMassC60.0.png" /></a><BR><a href="https://smodels.github.io/validation/123phil/13TeV/ATLAS/ATLAS-SUSY-2016-07-eff/validation/T5WW_2EqMassAx_EqMassB0.5x+0.5y_EqMassCy.png"><img src="https://smodels.github.io/validation/123phil/13TeV/ATLAS/ATLAS-SUSY-2016-07-eff/validation/T5WW_2EqMassAx_EqMassB0.5x+0.5y_EqMassCy.png" /></a>  | <img src="https://smodels.github.io/pics/new.png" /> in 1.2.3phil!  |
+| | [T5WW](SmsDictionary123phil#T5WW)| 36.1| False |<a href="https://smodels.github.io/validation/123phil/13TeV/ATLAS/ATLAS-SUSY-2016-07-eff/validation/T5WW_2EqMassAx_EqMassB0.5x+0.5y_EqMassCy.png"><img src="https://smodels.github.io/validation/123phil/13TeV/ATLAS/ATLAS-SUSY-2016-07-eff/validation/T5WW_2EqMassAx_EqMassB0.5x+0.5y_EqMassCy.png" /></a><BR><a href="https://smodels.github.io/validation/123phil/13TeV/ATLAS/ATLAS-SUSY-2016-07-eff/validation/T5WW_2EqMassAx_EqMassBy_EqMassC60.0.png"><img src="https://smodels.github.io/validation/123phil/13TeV/ATLAS/ATLAS-SUSY-2016-07-eff/validation/T5WW_2EqMassAx_EqMassBy_EqMassC60.0.png" /></a>  | <img src="https://smodels.github.io/pics/new.png" /> in 1.2.3phil!  |
 | | [T5WWoff](SmsDictionary123phil#T5WWoff)| 36.1| False |<a href="https://smodels.github.io/validation/123phil/13TeV/ATLAS/ATLAS-SUSY-2016-07-eff/validation/T5WWoff_2EqMassAx_EqMassBy_EqMassC60.0.png"><img src="https://smodels.github.io/validation/123phil/13TeV/ATLAS/ATLAS-SUSY-2016-07-eff/validation/T5WWoff_2EqMassAx_EqMassBy_EqMassC60.0.png" /></a><BR><a href="https://smodels.github.io/validation/123phil/13TeV/ATLAS/ATLAS-SUSY-2016-07-eff/validation/T5WWoff_2EqMassAx_EqMassB0.5x+0.5y_EqMassCy.png"><img src="https://smodels.github.io/validation/123phil/13TeV/ATLAS/ATLAS-SUSY-2016-07-eff/validation/T5WWoff_2EqMassAx_EqMassB0.5x+0.5y_EqMassCy.png" /></a>  | <img src="https://smodels.github.io/pics/new.png" /> in 1.2.3phil!  |
 | | [T5WZh](SmsDictionary123phil#T5WZh)| 36.1| False |<a href="https://smodels.github.io/validation/123phil/13TeV/ATLAS/ATLAS-SUSY-2016-07-eff/validation/T5WZh_2EqMassAx_EqMassBy_EqMassC60.0.png"><img src="https://smodels.github.io/validation/123phil/13TeV/ATLAS/ATLAS-SUSY-2016-07-eff/validation/T5WZh_2EqMassAx_EqMassBy_EqMassC60.0.png" /></a>  | <img src="https://smodels.github.io/pics/new.png" /> in 1.2.3phil! [comment](https://smodels.github.io/validation/123phil/13TeV/ATLAS/ATLAS-SUSY-2016-07-eff/validation/T5WZh.txt) |
 | | [T5ZZ](SmsDictionary123phil#T5ZZ)| 36.1| False |<a href="https://smodels.github.io/validation/123phil/13TeV/ATLAS/ATLAS-SUSY-2016-07-eff/validation/T5ZZ_2EqMassAx_EqMassBy_EqMassC1.0.png"><img src="https://smodels.github.io/validation/123phil/13TeV/ATLAS/ATLAS-SUSY-2016-07-eff/validation/T5ZZ_2EqMassAx_EqMassBy_EqMassC1.0.png" /></a>  | <img src="https://smodels.github.io/pics/new.png" /> in 1.2.3phil!  |
-| | [T6WWleft](SmsDictionary123phil#T6WWleft)| 36.1| False |<a href="https://smodels.github.io/validation/123phil/13TeV/ATLAS/ATLAS-SUSY-2016-07-eff/validation/T6WWleft_2EqMassAx_EqMassBy_EqMassC60.0.png"><img src="https://smodels.github.io/validation/123phil/13TeV/ATLAS/ATLAS-SUSY-2016-07-eff/validation/T6WWleft_2EqMassAx_EqMassBy_EqMassC60.0.png" /></a><BR><a href="https://smodels.github.io/validation/123phil/13TeV/ATLAS/ATLAS-SUSY-2016-07-eff/validation/T6WWleft_2EqMassAx_EqMassB0.5x+0.5y_EqMassCy.png"><img src="https://smodels.github.io/validation/123phil/13TeV/ATLAS/ATLAS-SUSY-2016-07-eff/validation/T6WWleft_2EqMassAx_EqMassB0.5x+0.5y_EqMassCy.png" /></a>  | <img src="https://smodels.github.io/pics/new.png" /> in 1.2.3phil!  |
+| | [T6WWleft](SmsDictionary123phil#T6WWleft)| 36.1| False |<a href="https://smodels.github.io/validation/123phil/13TeV/ATLAS/ATLAS-SUSY-2016-07-eff/validation/T6WWleft_2EqMassAx_EqMassB0.5x+0.5y_EqMassCy.png"><img src="https://smodels.github.io/validation/123phil/13TeV/ATLAS/ATLAS-SUSY-2016-07-eff/validation/T6WWleft_2EqMassAx_EqMassB0.5x+0.5y_EqMassCy.png" /></a><BR><a href="https://smodels.github.io/validation/123phil/13TeV/ATLAS/ATLAS-SUSY-2016-07-eff/validation/T6WWleft_2EqMassAx_EqMassBy_EqMassC60.0.png"><img src="https://smodels.github.io/validation/123phil/13TeV/ATLAS/ATLAS-SUSY-2016-07-eff/validation/T6WWleft_2EqMassAx_EqMassBy_EqMassC60.0.png" /></a>  | <img src="https://smodels.github.io/pics/new.png" /> in 1.2.3phil!  |
 | | [T6WWoffleft](SmsDictionary123phil#T6WWoffleft)| 36.1| False |<a href="https://smodels.github.io/validation/123phil/13TeV/ATLAS/ATLAS-SUSY-2016-07-eff/validation/T6WWoffleft_2EqMassAx_EqMassB0.5x+0.5y_EqMassCy.png"><img src="https://smodels.github.io/validation/123phil/13TeV/ATLAS/ATLAS-SUSY-2016-07-eff/validation/T6WWoffleft_2EqMassAx_EqMassB0.5x+0.5y_EqMassCy.png" /></a><BR><a href="https://smodels.github.io/validation/123phil/13TeV/ATLAS/ATLAS-SUSY-2016-07-eff/validation/T6WWoffleft_2EqMassAx_EqMassBy_EqMassC60.0.png"><img src="https://smodels.github.io/validation/123phil/13TeV/ATLAS/ATLAS-SUSY-2016-07-eff/validation/T6WWoffleft_2EqMassAx_EqMassBy_EqMassC60.0.png" /></a>  | <img src="https://smodels.github.io/pics/new.png" /> in 1.2.3phil!  |
 | | [T6WZh](SmsDictionary123phil#T6WZh)| 36.1| False |<a href="https://smodels.github.io/validation/123phil/13TeV/ATLAS/ATLAS-SUSY-2016-07-eff/validation/T6WZh_2EqMassAx_EqMassBy_EqMassC60.0.png"><img src="https://smodels.github.io/validation/123phil/13TeV/ATLAS/ATLAS-SUSY-2016-07-eff/validation/T6WZh_2EqMassAx_EqMassBy_EqMassC60.0.png" /></a>  | <img src="https://smodels.github.io/pics/new.png" /> in 1.2.3phil! [comment](https://smodels.github.io/validation/123phil/13TeV/ATLAS/ATLAS-SUSY-2016-07-eff/validation/T6WZh.txt) |
 | | [TGQ](SmsDictionary123phil#TGQ)| 36.1| False |  | <img src="https://smodels.github.io/pics/new.png" /> in 1.2.3phil!  |
-| | [TGQ12](SmsDictionary123phil#TGQ12)| 36.1| False |<a href="https://smodels.github.io/validation/123phil/13TeV/ATLAS/ATLAS-SUSY-2016-07-eff/validation/TGQ12_EqMassAx_EqMassB995.0__EqmassAy_EqmassB995.0.png"><img src="https://smodels.github.io/validation/123phil/13TeV/ATLAS/ATLAS-SUSY-2016-07-eff/validation/TGQ12_EqMassAx_EqMassB995.0__EqmassAy_EqmassB995.0.png" /></a><BR><a href="https://smodels.github.io/validation/123phil/13TeV/ATLAS/ATLAS-SUSY-2016-07-eff/validation/TGQ12_EqMassAx_EqMassB695.0__EqmassAy_EqmassB695.0.png"><img src="https://smodels.github.io/validation/123phil/13TeV/ATLAS/ATLAS-SUSY-2016-07-eff/validation/TGQ12_EqMassAx_EqMassB695.0__EqmassAy_EqmassB695.0.png" /></a><BR><a href="https://smodels.github.io/validation/123phil/13TeV/ATLAS/ATLAS-SUSY-2016-07-eff/validation/TGQ12_EqMassAx_EqMassB0.0__EqmassAy_EqmassB0.0.png"><img src="https://smodels.github.io/validation/123phil/13TeV/ATLAS/ATLAS-SUSY-2016-07-eff/validation/TGQ12_EqMassAx_EqMassB0.0__EqmassAy_EqmassB0.0.png" /></a>  | <img src="https://smodels.github.io/pics/new.png" /> in 1.2.3phil! [comment](https://smodels.github.io/validation/123phil/13TeV/ATLAS/ATLAS-SUSY-2016-07-eff/validation/TGQ12.txt) |
+| | [TGQ12](SmsDictionary123phil#TGQ12)| 36.1| False |<a href="https://smodels.github.io/validation/123phil/13TeV/ATLAS/ATLAS-SUSY-2016-07-eff/validation/TGQ12_EqMassAx_EqMassB995.0__EqmassAy_EqmassB995.0.png"><img src="https://smodels.github.io/validation/123phil/13TeV/ATLAS/ATLAS-SUSY-2016-07-eff/validation/TGQ12_EqMassAx_EqMassB995.0__EqmassAy_EqmassB995.0.png" /></a><BR><a href="https://smodels.github.io/validation/123phil/13TeV/ATLAS/ATLAS-SUSY-2016-07-eff/validation/TGQ12_EqMassAx_EqMassB0.0__EqmassAy_EqmassB0.0.png"><img src="https://smodels.github.io/validation/123phil/13TeV/ATLAS/ATLAS-SUSY-2016-07-eff/validation/TGQ12_EqMassAx_EqMassB0.0__EqmassAy_EqmassB0.0.png" /></a><BR><a href="https://smodels.github.io/validation/123phil/13TeV/ATLAS/ATLAS-SUSY-2016-07-eff/validation/TGQ12_EqMassAx_EqMassB695.0__EqmassAy_EqmassB695.0.png"><img src="https://smodels.github.io/validation/123phil/13TeV/ATLAS/ATLAS-SUSY-2016-07-eff/validation/TGQ12_EqMassAx_EqMassB695.0__EqmassAy_EqmassB695.0.png" /></a>  | <img src="https://smodels.github.io/pics/new.png" /> in 1.2.3phil! [comment](https://smodels.github.io/validation/123phil/13TeV/ATLAS/ATLAS-SUSY-2016-07-eff/validation/TGQ12.txt) |
 | [ATLAS-SUSY-2016-15](https://atlas.web.cern.ch/Atlas/GROUPS/PHYSICS/PAPERS/SUSY-2016-15/)| [T2tt](SmsDictionary123phil#T2tt)| 36.1| tbd |<a href="https://smodels.github.io/validation/123phil/13TeV/ATLAS/ATLAS-SUSY-2016-15-eff/validation/T2tt_2EqMassAx_EqMassBy.png"><img src="https://smodels.github.io/validation/123phil/13TeV/ATLAS/ATLAS-SUSY-2016-15-eff/validation/T2tt_2EqMassAx_EqMassBy.png" /></a>  | <img src="https://smodels.github.io/pics/new.png" /> in 1.2.3phil!  |
 | | [T2ttoff](SmsDictionary123phil#T2ttoff)| 36.1| tbd |<a href="https://smodels.github.io/validation/123phil/13TeV/ATLAS/ATLAS-SUSY-2016-15-eff/validation/T2ttoff_2EqMassAx_EqMassBy.png"><img src="https://smodels.github.io/validation/123phil/13TeV/ATLAS/ATLAS-SUSY-2016-15-eff/validation/T2ttoff_2EqMassAx_EqMassBy.png" /></a>  | <img src="https://smodels.github.io/pics/new.png" /> in 1.2.3phil! [comment](https://smodels.github.io/validation/123phil/13TeV/ATLAS/ATLAS-SUSY-2016-15-eff/validation/T2ttoff.txt) |
 | [ATLAS-SUSY-2016-16](https://atlas.web.cern.ch/Atlas/GROUPS/PHYSICS/PAPERS/SUSY-2016-16/)| [T2ttoff](SmsDictionary123phil#T2ttoff)| 36.1| tbd |<a href="https://smodels.github.io/validation/123phil/13TeV/ATLAS/ATLAS-SUSY-2016-16-eff/validation/T2ttoff_2EqMassAx_EqMassBy.png"><img src="https://smodels.github.io/validation/123phil/13TeV/ATLAS/ATLAS-SUSY-2016-16-eff/validation/T2ttoff_2EqMassAx_EqMassBy.png" /></a>  | <img src="https://smodels.github.io/pics/new.png" /> in 1.2.3phil!  |
@@ -86,4 +86,4 @@ To [official validation plots](Validation123phil)
 | [ATLAS-SUSY-2017-01](https://atlas.web.cern.ch/Atlas/GROUPS/PHYSICS/PAPERS/SUSY-2017-01/)| [TChiWH](SmsDictionary123phil#TChiWH)| 36.1| tbd |<a href="https://smodels.github.io/validation/123phil/13TeV/ATLAS/ATLAS-SUSY-2017-01-eff/validation/TChiWH_2EqMassAx_EqMassBy.png"><img src="https://smodels.github.io/validation/123phil/13TeV/ATLAS/ATLAS-SUSY-2017-01-eff/validation/TChiWH_2EqMassAx_EqMassBy.png" /></a>  | <img src="https://smodels.github.io/pics/new.png" /> in 1.2.3phil! [comment](https://smodels.github.io/validation/123phil/13TeV/ATLAS/ATLAS-SUSY-2017-01-eff/validation/TChiWH.txt) |
 | [ATLAS-SUSY-2018-32](https://atlas.web.cern.ch/Atlas/GROUPS/PHYSICS/PAPERS/SUSY-2018-32/)| [TChiWW](SmsDictionary123phil#TChiWW)| 139.0| tbd |<a href="https://smodels.github.io/validation/123phil/13TeV/ATLAS/ATLAS-SUSY-2018-32-eff/validation/TChiWW_2EqMassAx_EqMassBy.png"><img src="https://smodels.github.io/validation/123phil/13TeV/ATLAS/ATLAS-SUSY-2018-32-eff/validation/TChiWW_2EqMassAx_EqMassBy.png" /></a>  | <img src="https://smodels.github.io/pics/new.png" /> in 1.2.3phil!  |
 
-This page was created Mon Jan 20 13:20:45 2020
+This page was created Tue Jan 21 20:34:34 2020
